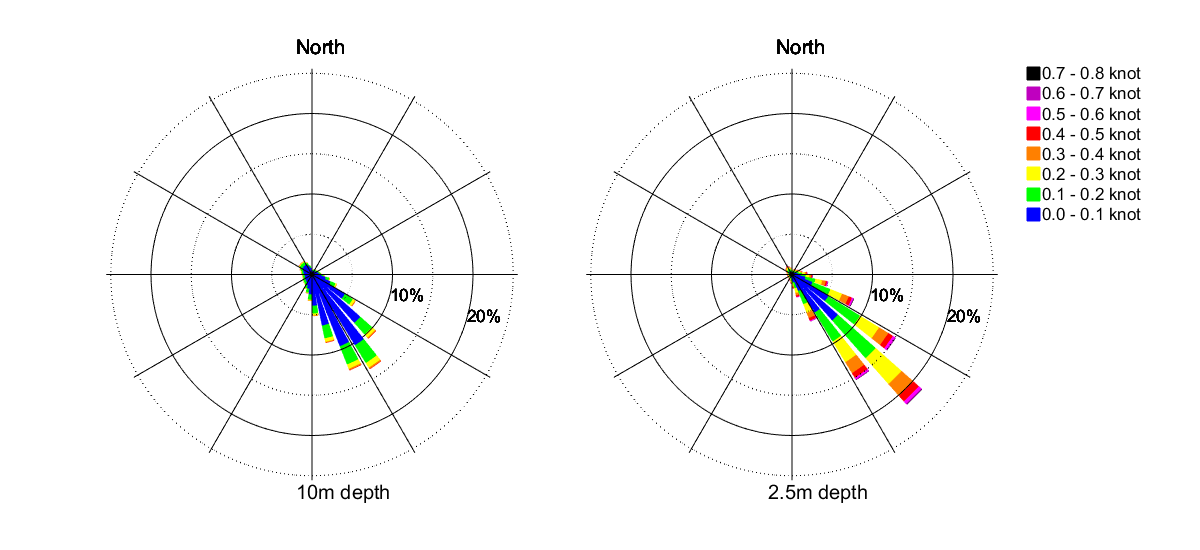
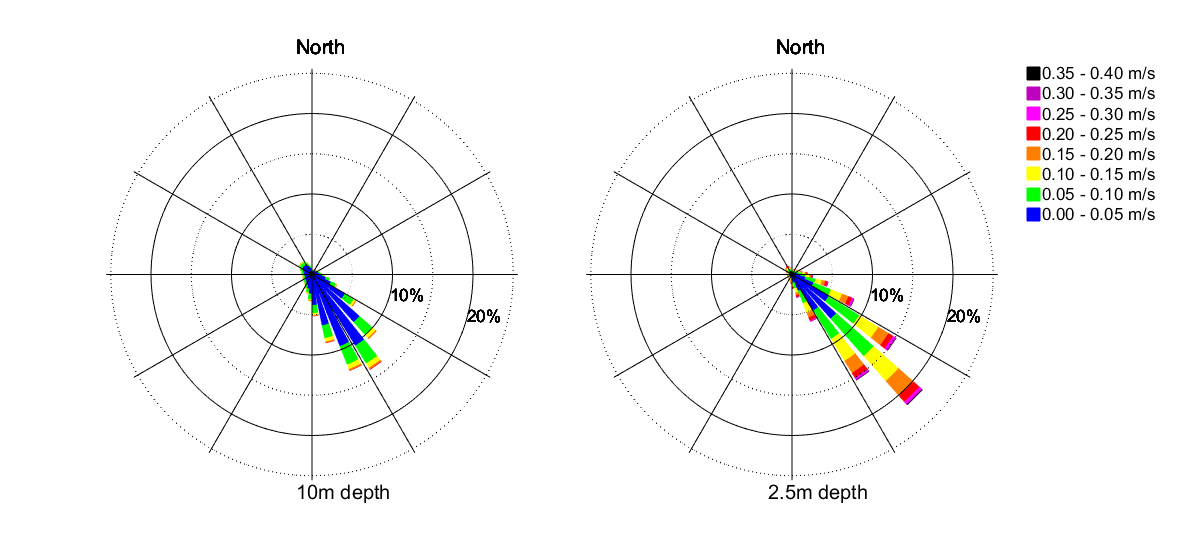
Strømmen ved Slagen

diff --git a/Valideringsrapport_v1.tex b/Valideringsrapport_v1.tex
@@ -284,8 +284,8 @@ The Norwegian Mapping Authority has three permanent stations measuring sea level
 Current measurements were performed by Statnett in two cross sections. To be continued ...
 
 
-\subsubsection{Currents at Slagentangen - Karina}
-Using a bottom-mounted doppler Exxonmobil has measured the currents in two depths since 1997. The device is placed 50-80 meters northwest of Turning Dolphin at the Slagen Refinery (Fig.~\ref{fig:Slagen-kart}). Bliksekilen nature reserve is located west of Slagen Refinery. It is a shallow water area with rare flora and fauna. 
+\subsubsection{Currents at Slagentangen}
+Using a bottom-mounted doppler Exxonmobil has measured the currents in two depths since 1997. The device is placed 50-80 meters northwest of Turning Dolphin at the Slagen Refinery (Fig.~\ref{fig:Slagen-kart}). Note that Bliksekilen nature reserve is located west of Slagen Refinery. It is a shallow water area with rare flora and fauna. 
 
 \begin{figure}[htb]
 \centerline{
@@ -502,10 +502,8 @@ Simulated field of M$_2$ amplitude (left) and phase (right). The corresponding o
 \subsubsection{Currents in two cross sections - Andr\'{e}/Karina}
 To be continued... Andr\'{e}?
 
-\subsubsection{Current at Slagentangen - Karina}
+\subsubsection{Current at Slagentangen}
 The observed currents at Slagentangen are compared with simulated data from 1st October 2014 until 30th November 2015 at approximately the same location and depth (Fig.~\ref{fig:Slagen-kart}).
-
-Testing with popcorn indicate that the preferred direction of the surface currents are towards Bliksekilen located west of the Slagen Refinery.
 
 %\begin{figure}[ht]
 %\centerline{
@@ -519,7 +517,7 @@ Testing with popcorn indicate that the preferred direction of the surface curren
 \centerline{
 \includegraphics*[trim=3cm 0cm 3cm 0cm,clip=true,width=\textwidth]{Figurer/Slagen_tid}}
 \caption{\small
-Timeseries of observed velocities at Slagen from 1st of January 2014 to 31st of December 2015.}
+Timeseries of observed and simulated velocity magnitudes at Slagen.}
 \label{fig:Slagen-tid}
 \end{figure}
 
@@ -529,13 +527,13 @@ Timeseries of observed velocities at Slagen from 1st of January 2014 to 31st of 
 \includegraphics*[trim=2cm 1cm 3cm 0cm,clip=true,height=4cm]{Figurer/Slagen_Rose_sim}
 }
 \caption{\small
-Current roses for observed (left) and simulated (right) velocities at two depths from 1st of October 2014 to 1st of October 2015.}
+Current roses for observed (left) and simulated (right) velocity magnitude at the two depths from 1st of October 2014 to 1st of October 2015.}
 \label{fig:Slagen-rose}
 \end{figure}
 
 \begin{figure}[t]
 \centerline{
-\includegraphics*[trim=3cm 0cm 3cm 0cm,clip=true,width=\textwidth]{Figurer/Slagen_pdf} 
+\includegraphics*[trim=2cm 0cm 2cm 0cm,clip=true,width=\textwidth]{Figurer/Slagen_pdf} 
 }
 \caption{\small
 Probability density functions of velocities and directions at Slagen for 1st of October 2014 to 1st of October 2015. The bin width is 0.01 knots for velocity and 3 degrees for direction.}
@@ -544,41 +542,43 @@ Probability density functions of velocities and directions at Slagen for 1st of 
 
 \begin{table}[ht]
 %\vspace{-1.5cm}
-\caption{Maximum observed velocity at Slagen.}
+\caption{Yearly maximum observed velocity at Slagen.}
 \label{tab:Slagen_max}
 \centering
 \begin{tabular}{|l|lll|lll|}
 \hline 
 & \multicolumn{3}{|l|}{\bf Max. velocity at 10m depth} & \multicolumn{3}{|l|}{\bf Max. velocity at 2.5m depth} \\
-{\bf Year} & {\bf Date} & {\bf [knots]} & {\bf [deg]} & {\bf Date} & {\bf [knots]} & {\bf [deg]} \\ \hline 
-\small 2006 & 21 January  & 0.81 & 139 & 31 October & 1.10 & 140 \\
-\small 2007 & 14 January  & 0.81 & 172 & 21 August   & 2.00 & 359 \\
-\small 2008 & 22 March    & 0.70 & 149 & 19 December & 1.10 & 160 \\
-\small 2009 & 17 December & 0.87 & 142 & 24 March    & 1.10 & 139 \\
-\small 2010 & 09 November & 0.81 & 138 & 09 November & 1.05 & 138 \\
-\small 2011 & 01 January  & 0.76 & 146 & 30 March    & 1.21 & 185 \\
-\small 2012 & 05 December & 0.75 & 138 & 29 May      & 1.11 & 140 \\
-\small 2013 & 10 October  & 0.82 & 143 & 10 October & 0.95 & 144 \\
-\small 2014 & 18 April    & 0.85 & 147 & 26 March    & 1.07 & 143 \\
-\small 2015 & 24 January  & 0.65 & 128 & 21 March    & 1.07 & 141 \\
+{\bf Year} & {\bf Date} & {\bf [m/s} & {\bf [deg]} & {\bf Date} & {\bf [m/s]} & {\bf [deg]} \\ \hline 
+\small 2006 & 21 Jan 2006 & 0.42 & 139 & 31 Oct 2006 & 0.57 & 140 \\
+\small 2007 & 14 Jan 2007 & 0.42 & 172 & 21 Aug 2007 & 1.03 & 359 \\
+\small 2008 & 22 Mar 2008 & 0.36 & 149 & 19 Dec 2008 & 0.57 & 160 \\
+\small 2009 & 17 Dec 2009 & 0.45 & 142 & 24 Mar 2009 & 0.56 & 139 \\
+\small 2010 & 09 Nov 2010 & 0.41 & 138 & 09 Nov 2010 & 0.54 & 138 \\
+\small 2011 & 01 Jan 2011 & 0.39 & 146 & 30 Mar 2011 & 0.62 & 185 \\
+\small 2012 & 05 Dec 2012 & 0.39 & 138 & 29 May 2012 & 0.57 & 140 \\
+\small 2013 & 10 Oct 2013 & 0.42 & 143 & 10 Oct 2013 & 0.49 & 144 \\
+\small 2014 & 18 Apr 2014 & 0.44 & 147 & 26 Mar 2014 & 0.55 & 143 \\
+\small 2015 & 24 Jan 2015 & 0.33 & 128 & 21 Mar 2015 & 0.55 & 141 \\
 \hline
 \end{tabular}
 \end{table}
 
 \begin{figure}[ht]
 \centerline{
-\includegraphics*[trim=0cm 0cm 0cm 0cm,clip=true,width=0.5\textwidth]{Figurer/Slagen_QQ}}
+\includegraphics*[trim=0cm 0cm 0cm 0cm,clip=true,width=0.8\textwidth]{Figurer/Slagen_QQ}}
 \caption{\small
 Combined QQ- and scatter plot of observed and simulated current at Slagen from 1st of October 2014 to 1st of October 2015.}
 \label{fig:Slagen_QQ}
 \end{figure}
 
-Time series show that the observed velocities varies and follows no striking pattern (Fig.~\ref{fig:Slagen-tid}).
-Current roses show that the both the observed and the simulated velocities are stronger in the upper layer (Fig.~\ref{fig:Slagen-rose}). The simulated velocities are stronger than the observed velocities. This is in accordance with the probability density functions (Fig.~\ref{fig:Slagen-pdf}). The maximum velocities are approximately 0.8 and 1.1 knots at 10 and 2.5 meters depth respectively (Tab.~\ref{tab:Slagen_max}). During 2014 and 2015 maximum observed velocity at 2.5 meters depth was 1.07 knots in southeast direction (143$^o$N) the 26th of March 2014. The velocity at 10 meters depth was 0.15 knot at the time of maximum velocity at 2.5 meters depth indicating that the velocities are different in the two layers.
+Time series reveal that the observed velocities varies and follows no striking pattern (Fig.~\ref{fig:Slagen-tid}).
+Current roses show that both the observed and the simulated velocities are stronger in the upper layer (Fig.~\ref{fig:Slagen-rose}). The simulated velocities are stronger than the observed velocities. This is in accordance with the probability density functions (Fig.~\ref{fig:Slagen-pdf}). The yearly maximum observed velocities are approximately 0.4 and 0.6 m/s at 10 and 2.5 meters depth respectively (Tab.~\ref{tab:Slagen_max}). During 2014 and 2015 maximum observed velocity at 2.5 meters depth was 0.55 m/s in southeast direction (143$^o$N) the 26th of March 2014. The velocity at 10 meters depth was 0.08 m/s (153$^o$N) at the time of maximum velocity at 2.5 meters depth indicating that the velocities are different in the two layers.
 
-The mean directions are to the south east. At approximately 2.5 meters depth the mean directions are 146$^o$N and 141$^o$N for observed and simulated directions respectively which is in fairly good agreement. At approximately 10 meters depth the observed mean direction shifts to 170$^o$N while the simulated mean direction is 149$^o$N. The probability density functions reveals that the model captures the distribution of directions in the upper layer, but does not capture the change in direction between the two depths (Fig.~\ref{fig:Slagen-pdf}). The standard deviations  at 2.5 and 10 meters are 55 and 66 degrees respectively for the observed directions, and 58 and 65 for the simulated directions.
+The mean directions are to the south east. At approximately 2.5 meters depth the mean directions are 146$^o$N and 139$^o$N for observed and simulated directions respectively which is in fairly good agreement. At approximately 10 meters depth the observed mean direction shifts to 170$^o$N while the simulated mean direction is 148$^o$N. 
+Testing with popcorn indicate that the preferred direction of the surface currents are towards Bliksekilen located west of the Slagen Refinery. This is not the case neither in the observations nor the simulations.
+The probability density functions reveals that the model captures the distribution of directions in the upper layer, but does not capture the change in direction between the two depths (Fig.~\ref{fig:Slagen-pdf}). The standard deviations at 2.5 and 10 meters are 55 and 66 degrees respectively for the observed directions, and 56 and 61 for the simulated directions.
 
-The scatter plots reveal that the correlation in time is not satisfying (Fig.~\ref{fig:Slagen_QQ}). The model seen to have difficulties with capturing the right phenomena influencing the currents to the right time. This is a well known problem when it comes to forecasting currents. The QQ-plots also confirms that the simulated currents are stronger than the observed currents. 
+The time series scatter plots reveal that the correlation in time is not satisfying (Fig.~\ref{fig:Slagen-tid} and \ref{fig:Slagen_QQ}). The model seem to have difficulties with capturing the right phenomena influencing the currents to the right time. This is a well known problem when it comes to forecasting currents. The QQ-plots also confirms that the simulated currents are stronger than the observed currents. 
 
 
 \clearpage
